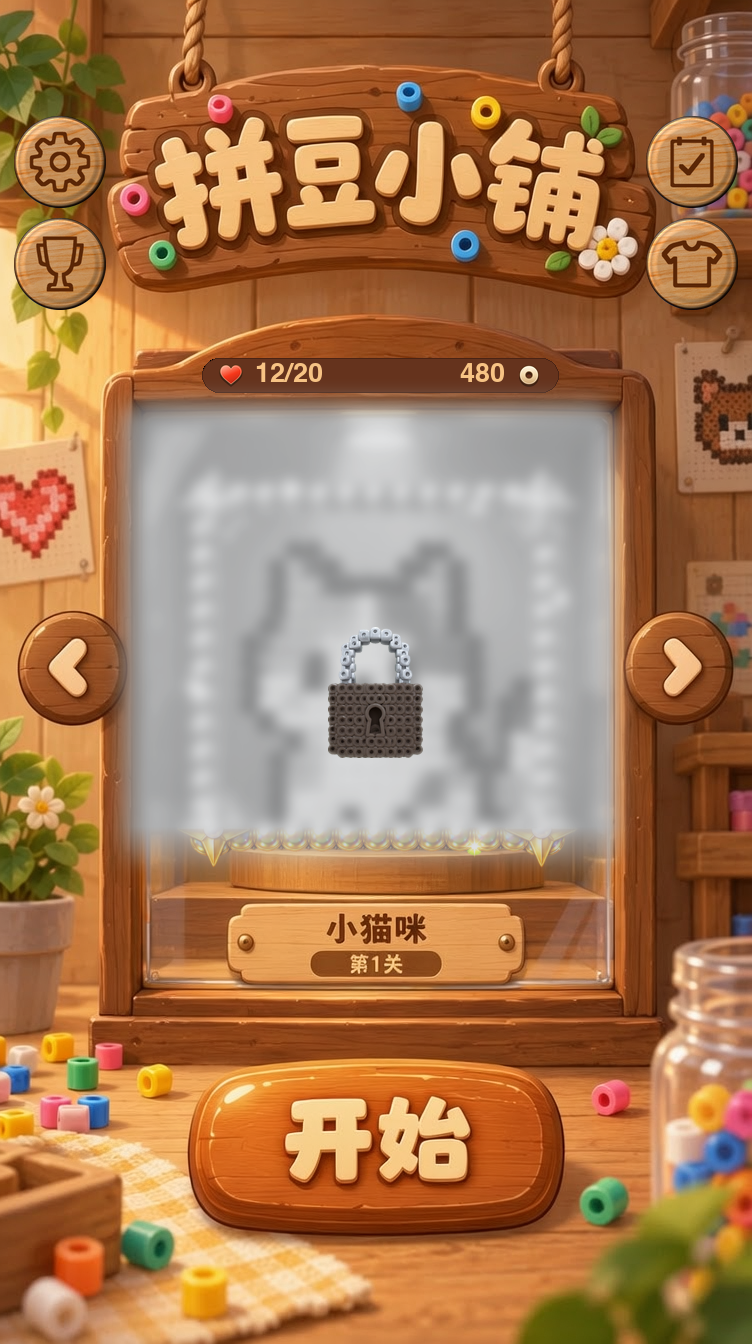
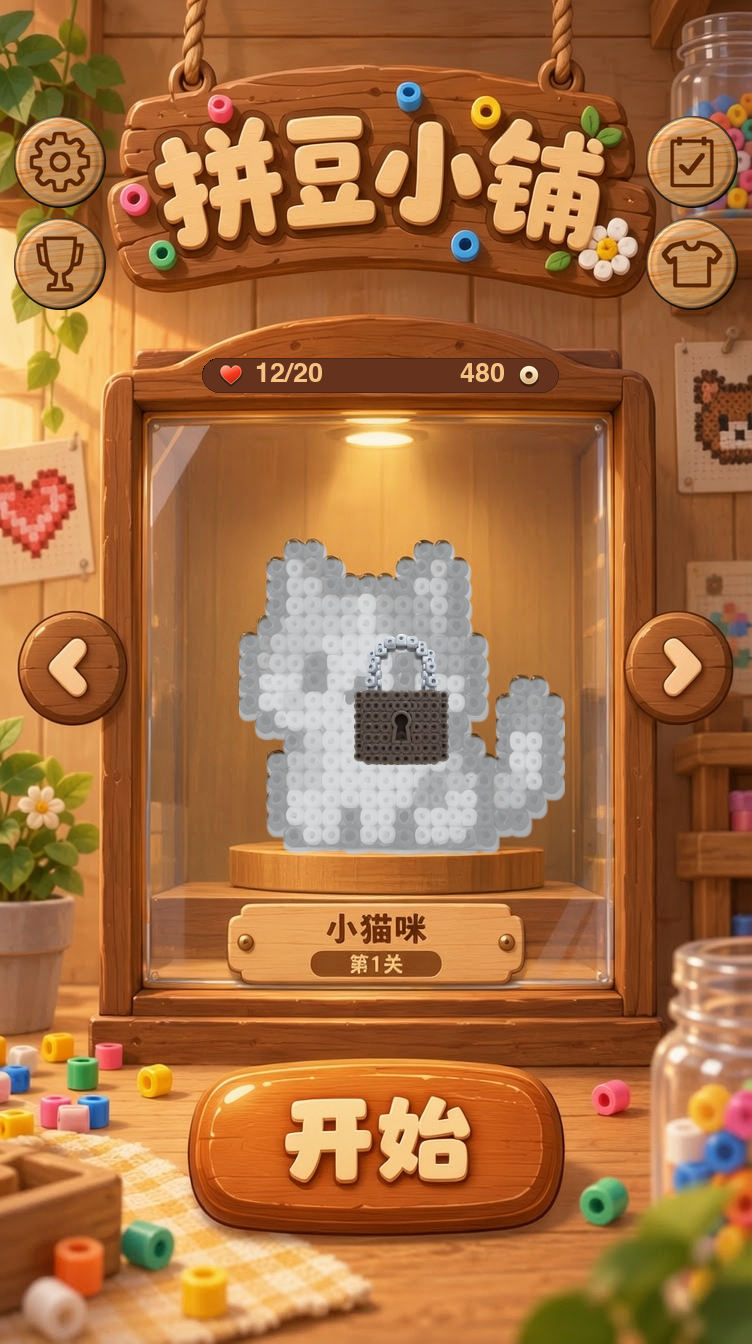
fix(art): 三态按图案真实位置重出（WXG-T-574）
- 模板匹配得豆画位移 +26/+7，mask/框/章/锁统一按真实 bbox

- locked 只灰小猫去蒙版去框；fullstar 框放大居中且去星

- cleared 通关章入内容层；五次贴回区外 maxdiff=0

Changed region(s): [[0.1529, 0.2812, 0.8564, 0.6562]]

diff --git a/games/beads/design/ai-workflows/proto-from-figma.py b/games/beads/design/ai-workflows/proto-from-figma.py
@@ -3,8 +3,11 @@
 
 贴回三步（区外 maxdiff 必须 0）：α = blur(M)×M 向内羽化 → 合成 → 区外硬拷回。
 
-与 v2 的差别：金边/三态章换成 Figma 新设计（珠圈装裱框 + 拼豆锁 + 金色通关圆章），
-磨砂 / 竖向揭彩 / 满星行沿用 proto-from-baseline.py（同式同向，⛔ 不得反）。
+四态口径（2026-11-04 用户令）：
+  locked   = ⛔ 无蒙版、无框；只按 44:64 真 alpha 把小猫置灰；锁贴豆画 bbox 正中
+  pushing  = 竖向揭彩（灰自上而下、彩自下而上）+ 木刻沙漏，珠圈框按 Figma 原位
+  cleared  = 全彩；通关圆章贴豆画 bbox 右上内缩 8px（内容层，随走马灯左右滚动）
+  fullstar = 珠圈框放大到中空区恰好容纳豆画并居中于 bbox；⛔ 无底座三颗星
 
 用法（仓库根）：python3 games/beads/design/ai-workflows/proto-from-figma.py
 """
@@ -29,28 +32,42 @@ OUT = ART / "final/prototypes"
 # Figma 画布 750×1334 → 基准底图 752×1344
 SX, SY = 752 / 750, 1344 / 1334
 
-FRAME_BOX = (164, 450, 426, 426)   # 46:21 满星装裱框·实例
-LOCK_BOX = (327, 622, 95, 130)     # 47:19 锁·关卡图案中心
-SEAL_BOX = (545, 405, 90, 89)      # 47:20 通关标记·框右上
+FRAME_BOX = (164, 450, 426, 426)       # 46:21 原框位（仅 pushing 用）
 ART_BOX_FIGMA = (212, 530, 325, 314)   # 44:64 关卡图案（猫咪拼豆）
+# 模板匹配实测：基准图里的豆画相对 Figma 节点右移 26 / 下移 7（scale 1.0，MAE 5.38）
+# ⇒ 一切以「图案」为准的落点（置灰 mask / 框中心 / 通关章 / 锁）都要加此位移
+ART_SHIFT = (26, 7)
+LOCK_WH = (95, 130)                    # 47:19 锁
+SEAL_WH = (90, 89)                     # 47:20 通关圆章
+SEAL_INSET = 8
+# 珠圈框中空区占框宽 0.695 / 高 0.717（实测十字扫描）；
+# 豆画 bbox 323×310 + 每边 8px ⇒ 框 488×455，中空区恰好框住图案
+FRAME_FULLSTAR_WH = (488, 455)
 
 
-def art_center():
-    """豆画 alpha 重心 → 基准图坐标；切图 @scale 2 ⇒ 2 切图 px = 1 设计 px。"""
+def art_bbox():
+    """豆画 44:64 的 alpha bbox（Figma 坐标，设计 px）；切图 @scale 2。"""
     with Image.open(ELEM / "ui_menu_art_cat.png") as im:
         a = np.asarray(im.convert("RGBA").getchannel("A"))
     ys, xs = np.nonzero(a > 32)
-    return ((ART_BOX_FIGMA[0] + xs.mean() / 2) * SX,
-            (ART_BOX_FIGMA[1] + ys.mean() / 2) * SY)
+    ax, ay = ART_BOX_FIGMA[:2]
+    dx, dy = ART_SHIFT
+    return (ax + dx + xs.min() / 2, ay + dy + ys.min() / 2,
+            ax + dx + (xs.max() + 1) / 2, ay + dy + (ys.max() + 1) / 2)
 
 
-def aligned_frame_box():
-    """把珠圈框中心平移到豆画 alpha 重心（返回 Figma 坐标 box）。"""
-    cx, cy = art_center()
-    fx, fy, fw, fh = FRAME_BOX
-    dx = (cx - (fx + fw / 2) * SX) / SX
-    dy = (cy - (fy + fh / 2) * SY) / SY
-    return (fx + dx, fy + dy, fw, fh)
+def centered_box(wh):
+    """以豆画 bbox 中心为准的居中 box（Figma 坐标）。"""
+    x0, y0, x1, y1 = art_bbox()
+    w, h = wh
+    return ((x0 + x1) / 2 - w / 2, (y0 + y1) / 2 - h / 2, w, h)
+
+
+def seal_box():
+    """通关章贴豆画 bbox 右上角内缩 8px（内容层，随走马灯滚动）。"""
+    _, y0, x1, _ = art_bbox()
+    w, h = SEAL_WH
+    return (x1 - SEAL_INSET - w, y0 + SEAL_INSET, w, h)
 
 
 def feather_paste(base, el, box, feather=1.2):
@@ -78,27 +95,56 @@ def feather_paste(base, el, box, feather=1.2):
     return Image.fromarray(o.astype(np.uint8)), maxdiff
 
 
+def local_composite(base, layer, mask):
+    """全尺寸 L mask 合成 + 区外硬拷回 + maxdiff 自证。"""
+    out = Image.composite(layer, base, mask)
+    b = np.asarray(base, dtype=np.int16)
+    o = np.asarray(out, dtype=np.int16)
+    outside = np.asarray(mask) == 0
+    o[outside] = b[outside]
+    maxdiff = int(np.abs(o - b)[outside].max()) if outside.any() else 0
+    assert maxdiff == 0, f"区外 maxdiff={maxdiff}"
+    return Image.fromarray(o.astype(np.uint8)), maxdiff
+
+
+def gray_art(base):
+    """只置灰小猫：44:64 真 alpha 当 mask，纯去饱和（blur=0），⛔ 无蒙版、无框。"""
+    with Image.open(ELEM / "ui_menu_art_cat.png") as im:
+        m = im.convert("RGBA").getchannel("A")
+    ax, ay, aw, ah = ART_BOX_FIGMA
+    X = round((ax + ART_SHIFT[0]) * SX)
+    Y = round((ay + ART_SHIFT[1]) * SY)
+    W, H = round(aw * SX), round(ah * SY)
+    m = m.resize((W, H), Image.LANCZOS)
+    # 对齐后仍外扩 2px 盖住豆画外缘描边珠子
+    m = m.filter(ImageFilter.MaxFilter(5))
+    m = ImageChops.multiply(m.filter(ImageFilter.GaussianBlur(1.2)), m)
+    full = Image.new("L", base.size, 0)
+    full.paste(m, (X, Y))
+    return local_composite(base, pb.gray_layer(base), full)
+
+
 def main():
     base = Image.open(BASE).convert("RGB")
     size = base.size
-    print("base", size, "progress", pb.PROGRESS)
+    print("base", size, "progress", pb.PROGRESS,
+          "豆画 bbox", tuple(round(v, 1) for v in art_bbox()))
 
-    # 珠圈装裱框：三态共用（新设计的基本元素）
+    # 原位置珠圈框：仅 pushing 用（用户未点名此态）
     with Image.open(ELEM / "ui_menu_frame_pearls.png") as el:
         framed, d0 = feather_paste(base, el, FRAME_BOX)
-    print("frame 贴回 区外 maxdiff", d0)
+    print("pushing 框 贴回 区外 maxdiff", d0)
 
     fade = pb.bottom_fade(size, pb.CASE[3] - pb.CASE_FADE, pb.CASE[3] + 10)
 
-    # locked：柜内磨砂置灰 + Figma 拼豆锁
-    locked = Image.composite(
-        pb.gray_layer(framed, blur=6, lift=100, scale=0.55, veil=0.16), framed,
-        pb.shape(pb.CASE, size, blur=10, ramp=fade))
+    # locked：只灰小猫 + 锁居中；⛔ 无磨砂蒙版、无框
+    locked, d4 = gray_art(base)
+    print("locked 小猫置灰 区外 maxdiff", d4)
     with Image.open(ELEM / "ui_menu_badge_locked_figma.png") as el:
-        locked, d1 = feather_paste(locked, el, LOCK_BOX)
-    print("locked 章 贴回 区外 maxdiff", d1)
+        locked, d1 = feather_paste(locked, el, centered_box(LOCK_WH))
+    print("locked 锁 贴回 区外 maxdiff", d1)
 
-    # pushing：竖向揭彩（灰自上而下、彩自下而上）+ 木刻沙漏（Figma 未给此章）
+    # pushing：竖向揭彩（上灰下彩）+ 木刻沙漏（Figma 未给此章）
     ramp = pb.wipe_ramp(size, pb.PROGRESS, pb.WIPE_SOFT) * fade
     pushing = Image.composite(
         pb.gray_layer(framed, blur=0, lift=64, scale=0.66, veil=0.10), framed,
@@ -106,23 +152,17 @@ def main():
     pb.stamp(pushing, "ui_menu_badge_progress.png",
              pb.ART_C[0], pb.ART_C[1] + 4, pb.HOUR_D, pb.HOUR_D)
 
-    # cleared：全彩 + Figma 通关圆章（⛔ 无框、无底座三颗星）
+    # cleared：全彩 + 通关章贴豆画 bbox 右上；⛔ 无框、无底座三颗星
     cleared = base.copy()
     with Image.open(ELEM / "ui_menu_seal_cleared_figma.png") as el:
-        cleared, d2 = feather_paste(cleared, el, SEAL_BOX)
+        cleared, d2 = feather_paste(cleared, el, seal_box())
     print("cleared 章 贴回 区外 maxdiff", d2)
 
-    # fullstar：珠圈框中心对齐豆画 alpha 重心 + 底座三颗金星
-    box = aligned_frame_box()
-    print("fullstar 框平移(dx,dy 设计px)", round((box[0] - FRAME_BOX[0]) * SX, 1),
-          round((box[1] - FRAME_BOX[1]) * SY, 1))
+    # fullstar：框放大并居中于豆画 bbox；⛔ 无三颗星
+    box = centered_box(FRAME_FULLSTAR_WH)
+    print("fullstar 框", tuple(round(v, 1) for v in box))
     with Image.open(ELEM / "ui_menu_frame_pearls.png") as el:
         fullstar, d3 = feather_paste(base, el, box)
-    # 三颗星随框同步下移，仍落在「底座」圆台上而非金框柱上
-    star_y0 = pb.STAR_Y
-    pb.STAR_Y = star_y0 + round((box[1] - FRAME_BOX[1]) * SY)
-    fullstar = pb.star_row(fullstar)
-    pb.STAR_Y = star_y0
     print("fullstar 框 贴回 区外 maxdiff", d3)
 
     states = {"locked": locked, "pushing": pushing, "cleared": cleared,

diff --git a/games/beads/design/art/final/README.md b/games/beads/design/art/final/README.md
@@ -16,7 +16,7 @@
 
 ### 1b. 2026-11-04 现行口径（WXG-T-574）
 
-用户令：**基准图不动**；从 Figma 下载新设计图；参考 v2 三态做新三态；坐标图落 `coordinates/`；**之前的三态去掉**。追加令：`cleared` 通关**不加框、不加底座三颗星**；另增**满星**态（加框、图案居中于框）。
+用户令：**基准图不动**；从 Figma 下载新设计图；参考 v2 三态做新三态；坐标图落 `coordinates/`；**之前的三态去掉**。追加令：通关去框去星、另增满星态；再追加令（本批）：`fullstar` 框居中且正好框住图案、去三颗星；`cleared` 通关章移到图案矩形右上角（随内容左右滚动）；`locked` 去蒙版、只灰小猫、去框、锁居中。
 
 | 目录 | 现行件 | 来源 |
 |---|---|---|
@@ -25,11 +25,15 @@
 | `prototypes/` | `proto-menu-v3-{locked,pushing,cleared,fullstar}-752x1344.png` | 本批新四态（752×1344） |
 | `coordinates/` | `menu-master-coords-v2-20261104.png` | Figma `50:113` 坐标图（1300×1334，安全区 + 胶囊区 + 元素实测框） |
 
-**四态分工**：`locked` 磨砂 + 拼豆锁 · `pushing` 竖向揭彩 + 木刻沙漏（两者珠圈框按原 Figma 位）· `cleared` **无框无星**，只留 Figma 通关圆章 · `fullstar` 珠圈框 + 底座三颗金星，框中心平移到豆画 alpha 重心（dx −13.8 / dy +38.5 设计 px），金星随框下移仍落圆台。
+**四态分工（现行）**：`locked` = **无蒙版、无框**，只按 `44:64` 真 alpha 把小猫置灰（`gray_layer` blur=0），拼豆锁贴豆画 bbox 正中 · `pushing` = 竖向揭彩 + 木刻沙漏 + 原 Figma 位珠圈框（用户未点名此态，未改）· `cleared` = 全彩**无框无星**，通关圆章贴豆画 bbox 右上内缩 8px（属走马灯内容层）· `fullstar` = 珠圈框放大到 **488×455**（中空区占框宽 0.695 / 高 0.717，恰好容纳豆画 323×310 并留 8px 边）、中心对齐豆画 bbox，**⛔ 无三颗星**。
 
-**生成史三要素**：① 生成方式 = Figma REST 下载 + 程序化像素变换（**零模型、零重绘**）；② 产出脚本 = `my-skills/wxgame-figma/scripts/figma.mjs`（下载）、`../../ai-workflows/proto-from-figma.py`（四态；复用 `proto-from-baseline.py` 的磨砂 / 竖向揭彩 / 满星行函数）；③ 原图 = Figma 文件 `PBIK3RbfGlfzFsAnd97ZsP` 节点 `2:81` / `50:113` / `46:21` / `47:19` / `47:20` / `44:64`，**四件**透明切图存 `proposals/menu-3d-style-20261030/figma-elements-20261104/`（真 alpha；新增 `ui_menu_art_cat.png` 供重心计算）。
+**关键实测**：模板匹配（numpy，零新依赖）显示基准图里的豆画相对 Figma `44:64` 节点 **右移 26 / 下移 7**（scale 1.0，MAE 5.38）⇒ 脚本 `ART_SHIFT=(26,7)`，一切以「图案」为准的落点（置灰 mask / 框中心 / 通关章 / 锁）均加此位移；否则 mask 偏左会留一圈未置灰的深色珠子。豆画真实 bbox = (239,539)-(562,849)。
 
-**贴回判据**：α = blur(M)×M 向内羽化 → 合成 → 区外硬拷回；四次贴回实测 **区外 maxdiff = 0**（脚本 assert 硬失败）。饱和度分档 locked 2.3 / pushing 灰 5.3·彩 94.0 / cleared 96.9（全彩，仅通关章改动 0.6%）；`pushing` 的珠圈框上灰下金，与运行时 `grayWipeFx` 同式同向。
+**生成史三要素**：① 生成方式 = Figma REST 下载 + 程序化像素变换（**零模型、零重绘**）；② 产出脚本 = `my-skills/wxgame-figma/scripts/figma.mjs`（下载）、`../../ai-workflows/proto-from-figma.py`（四态；复用 `proto-from-baseline.py` 的去饱和 / 竖向揭彩函数）；③ 原图 = Figma 文件 `PBIK3RbfGlfzFsAnd97ZsP` 节点 `2:81` / `50:113` / `46:21` / `47:19` / `47:20` / `44:64`，**四件**透明切图存 `proposals/menu-3d-style-20261030/figma-elements-20261104/`（真 alpha；`ui_menu_art_cat.png` 供 bbox / 置灰 mask / 模板匹配）。
+
+**贴回判据**：α = blur(M)×M 向内羽化 → 合成 → 区外硬拷回；五次贴回/合成实测 **区外 maxdiff = 0**（脚本 assert 硬失败）。`locked` 改动仅 7.7%（包围盒 239,541–564,856 = 豆画区），柜内饱和度 68.0（背景/木牌/资源条全彩未动）；`cleared` 96.2（全彩）；`pushing` 灰 5.3·彩 94.0，与运行时 `grayWipeFx` 同式同向。
+
+⚠ **接线现状（未改代码）**：`src/view/meta-menu.ts:364-365` 记载 WXG-T-566 已把三态标记（通关飘带 / 锁 / 沙漏）**全部退场**，运行时只靠「作品灰度 + 柜灯」表达三态。本批原型上的通关章 / 锁属设计示意；若日后接线，通关章须挂在**走马灯内容层**随小猫图案一起左右滚动，⛔ 不得钉在玻璃框上 —— 另立任务。
 
 v2 三态 `proto-menu-v2-{locked,pushing,cleared}-752x1344.png` 已按用户令从目录移除（git 历史可取回）。**接线目标：原型设计，不进运行时 `assets/`**。
 

diff --git a/production/TASKS.md b/production/TASKS.md
@@ -8,7 +8,7 @@
 
 | Task ID | 名称 | 负责 | 状态 | 产出 |
 |---|---|---|---|---|
-| WXG-T-574 | 美术·Figma v2 设计图/坐标图落库 + v3 三态原型 | 主理人(CodeBuddy)·美术轨 | ✅ **完成（2026-11-04）**（用户令「基准不动、下载新设计图、参考旧三态做新三态、坐标图落 coordinates、去掉之前的」⇒ 方法选「分层切图贴回」：`2:81` 新设计图 + `50:113` 坐标图经 PAT+REST 下载落库；`46:21`/`47:19`/`47:20` 三件真 alpha 切图 + `proto-from-figma.py` 出 v3 三态，三次贴回区外 maxdiff=0；v2 三态移除；追加令：`cleared` 去框去星 + 新增 `fullstar`（移框对齐、图案居中）；README §1b / asset-provenance §5 登记） | 见详情 |
+| WXG-T-574 | 美术·Figma v2 设计图/坐标图落库 + v3 三态原型 | 主理人(CodeBuddy)·美术轨 | ✅ **完成（2026-11-04）**（用户令「基准不动、下载新设计图、参考旧三态做新三态、坐标图落 coordinates、去掉之前的」⇒ 方法选「分层切图贴回」：`2:81` 新设计图 + `50:113` 坐标图经 PAT+REST 下载落库；`46:21`/`47:19`/`47:20` 三件真 alpha 切图 + `proto-from-figma.py` 出 v3 三态，三次贴回区外 maxdiff=0；v2 三态移除；追加令：`cleared` 去框去星 + 新增 `fullstar`；二次追加令：框放大居中/去星、通关章入内容层、`locked` 只灰小猫且去蒙版去框；模板匹配得图案位移 (+26,+7)；README §1b / asset-provenance §5 登记） | 见详情 |
 | WXG-T-573 | 美术·删除菜单翻页钮 ui_btn_arrow_left/right | 主理人(Cursor)·美术轨 | ✅ **完成（2026-11-03）**（用户令「这两个不要了」⇒ 经两次确认选「删除 + 回退旧圆底」：删现役 `final/assets/menu/` 2 件与 Cocos 投放 2 件（png + meta）；清 `tuning/menu.ts` 两个纹理键、`beads-blit-carrier.ts` 与 `dev/harness/main.ts` 映射；`meta-menu.ts` 去掉整枚腿分支，橱窗 ◀▶ 回退 `ui_btn_arrow_bg_*` + `ui_icon_arrow_*`；`showcase-single.test.ts` 改断言为回退路径。beads 全量 vitest 121 文件 / 1430 用例全绿。详见 TASKS-DETAIL） | 见详情 |
 | WXG-T-572 | 美术·菜单基准图落 prototypes + Figma 写入权限验证 | 主理人(Cursor)·美术轨 | ✅ **完成（2026-11-03）**（基准图已落 `final/prototypes/`；新建 / 上传 / 读回 / `use_figma` 写入均已通过） | 见详情 |
 | WXG-T-571 | 工具链·Figma MCP 改接本地桌面版 | 主理人(Cursor·CodeBuddy)·工具链轨 | ✅ **完成（2026-11-03·方案改判）**（MCP 两路均判负：远程 OAuth 动态注册 403 白名单、本地 `3845` 需 Dev/Full 座位且恒不监听 ⇒ 用户令「用 `FIGMA_API_KEY` 走统一 skill」；已落地 `my-skills/wxgame-figma`（PAT+REST，`me`/`tree`/`node`/`img`+selftest，零依赖）+ 五 IDE 符号链接，`check:links` skills=51 OK） | 见详情 |

diff --git a/production/TASKS-DETAIL.md b/production/TASKS-DETAIL.md
@@ -7706,3 +7706,18 @@ Figma 官方文档（remote-server-installation）：远程端点 `https://mcp.f
 - `locked` / `pushing` **未改**（用户未点名）；其珠圈框仍按 Figma 原位。
 - 四态贴回判据：区外 maxdiff = 0 ×4；`cleared` 柜内饱和度 96.9（全彩）。
 - README §1b、asset-provenance §5 同步回写；仍署 WXG-T-574（同批返工，不另领号）。
+
+### 7. 二次追加令（2026-11-04）：三态按「图案真实位置」重出
+
+用户令：① `fullstar` 框要居中、正好框住图案、去掉下面三颗星；② `cleared` 通关图标放到图案矩形区域右上角，**跟小猫图案一起左右滚动**；③ `locked` 不要蒙版、小猫本身置灰即可、不要框、锁放到小猫矩形框正中。按图像任务开工前提示令，列两组选项后用户选 **「放大框·bbox 居中」+「豆画 bbox 右上内缩」**。
+
+**根因诊断（本批最有价值的一条）**：初版 `locked` 只灰出半只猫、右侧留一圈未置灰的深色珠子。先试 mask 外扩 4px 无效 ⇒ 排除「边缘差几像素」，改做模板匹配：把 `44:64` 切图 RGB 与基准图逐点粗搜（numpy，零新依赖），得 **scale 1.0 / dx +26 / dy +7 / MAE 5.38**（粗搜 +28/+8，细搜收敛到 +26/+7）。即**基准图里的豆画相对 Figma 节点有系统性位移**，不是尺寸差。⇒ 脚本加 `ART_SHIFT=(26,7)`，置灰 mask / 框中心 / 通关章 / 锁全部按真实 bbox **(239,539)-(562,849)** 落位。
+
+- `fullstar`：珠圈框中空区占框宽 0.695 / 高 0.717（十字扫描实测），豆画 323×310 + 每边 8px ⇒ 框 **488×455**，中心对齐 bbox；三颗星退场。
+- `cleared`：通关圆章贴 bbox 右上内缩 8px ⇒ (464,547) 一带，属走马灯**内容层**。
+- `locked`：`gray_art()` 用 `44:64` 真 alpha（MaxFilter 5 外扩 2px）当 mask 做 `gray_layer(blur=0)` 局部去饱和；⛔ 无 `shape(CASE)` 磨砂蒙版、无框；锁按 `centered_box()` 贴 bbox 正中。改动仅 7.7%，柜内饱和度 68.0（背景/木牌/资源条全彩未动）。
+- `pushing` **未改**（用户未点名）。
+
+**接线现状**：`src/view/meta-menu.ts:364-365` 记载 WXG-T-566 已把通关飘带 / 锁 / 沙漏**全部退场**，运行时只靠「作品灰度 + 柜灯」表达三态。本批原型上的章/锁属设计示意；若日后接线，通关章须挂走马灯内容层随图案左右滚动，⛔ 不得钉玻璃框 —— 另立任务，**本批未改代码**。
+
+判据：五次贴回/合成区外 **maxdiff = 0**（脚本 assert）；三张点名图逐张目视通过。README §1b、asset-provenance §5 同步回写；仍署 WXG-T-574。

diff --git a/ctx/hot-files.md b/ctx/hot-files.md
@@ -25,7 +25,7 @@
 
 §wechatgame 项目长期笔记=1+81 · §日志蒸馏规程（R2 · WXG-T-0…=7+6 · §项目约定=13+22 · §常用脚本=35+11 · §SubAgent=46+4 · §Rules=50+3 · §Hooks=53+7 · §Headless / CI=60+8 · §已知限制=68+14
 
-## `production/TASKS.md` — 181 行 / 41747 tok / 实测读 4 次
+## `production/TASKS.md` — 181 行 / 41784 tok / 实测读 4 次
 
 §WXG 任务台账（SSOT）=1+182 · §待排（backlog，无号，立项时领取…=154+29
 
@@ -103,10 +103,10 @@
 §knowledge/ — 工作室知识库…=1+323 · §1 读取协议（开发前期）=7+10 · §2 写入协议（任务收尾）=17+28 · §3 文件分工=45+10 · §4 维护=55+12 · §5 生命周期（访问记账 → 归档 → …=67+41 · §6 活跃条目（自动生成）=108+216
 > 本表只列 7 / 11 节：其余 4 节 → ctx/index.json（按 path 取 `sections[].anchor` / `startLine`，勿整读）。
 
-## `production/TASKS-DETAIL.md` — 7708 行 / 213982 tok
+## `production/TASKS-DETAIL.md` — 7723 行 / 214683 tok
 
-§WXG 任务台账 · 详情（标题制正文…=1+7709 · §WXG-T-563=7205+30 · §WXG-T-566=7235+61 · §WXG-T-567=7296+25 · §WXG-T-565=7321+32 · §WXG-T-564=7353+34 · §WXG-T-569=7387+41 · §WXG-T-568=7428+60 · §WXG-T-570=7488+71 · §WXG-T-571=7559+38 · §WXG-T-572=7597+33 · §WXG-T-573=7630+36 · §WXG-T-574=7666+44
-> 本表只列 13 / 845 节：其余 832 节 → ctx/index.json（按 path 取 `sections[].anchor` / `startLine`，勿整读）。
+§WXG 任务台账 · 详情（标题制正文…=1+7724 · §WXG-T-563=7205+30 · §WXG-T-566=7235+61 · §WXG-T-567=7296+25 · §WXG-T-565=7321+32 · §WXG-T-564=7353+34 · §WXG-T-569=7387+41 · §WXG-T-568=7428+60 · §WXG-T-570=7488+71 · §WXG-T-571=7559+38 · §WXG-T-572=7597+33 · §WXG-T-573=7630+36 · §WXG-T-574=7666+59
+> 本表只列 13 / 846 节：其余 833 节 → ctx/index.json（按 path 取 `sections[].anchor` / `startLine`，勿整读）。
 
 ## `games/breakout/design/concept.md` — 143 行 / 3113 tok / 实测读 217 次
 

diff --git a/ctx/BUDGET.md b/ctx/BUDGET.md
@@ -22,7 +22,7 @@
 
 | # | 文件 | tokens | 行数 | tier |
 |---:|---|---:|---:|:--:|
-| 1 | `production/TASKS-DETAIL.md` | 213982 | 7708 | normal |
+| 1 | `production/TASKS-DETAIL.md` | 214683 | 7723 | normal |
 | 2 | `games/beads/design/gdd/powerups-v2.md` | 154580 | 2352 | normal |
 | 3 | `games/beads/design/art/specs/assets-spec.md` | 121738 | 2109 | normal |
 | 4 | `production/qa/beads/g4-regression-report.md` | 86807 | 2201 | normal |
@@ -31,7 +31,7 @@
 | 7 | `docs/architecture/adr/ADR-0030-beads-cocos-production-blit-carrier.md` | 45150 | 1307 | normal |
 | 8 | `games/beads/design/proposals/bead-visual-style-spec.md` | 43650 | 1206 | normal |
 | 9 | `games/beads/design/gdd/systems-index.md` | 42379 | 323 | hot |
-| 10 | `production/TASKS.md` | 41747 | 181 | hot |
+| 10 | `production/TASKS.md` | 41784 | 181 | hot |
 | 11 | `docs/architecture/adr/ADR-0034-beads-save-uid-index-flatten.md` | 41181 | 502 | normal |
 | 12 | `games/beads/design/levels/levels-spec.md` | 39938 | 914 | normal |
 | 13 | `games/beads/design/art/specs/art-bible.md` | 38368 | 530 | normal |
@@ -49,7 +49,7 @@
 
 | 文件 | tokens | 类别 · 上限 | 处置 |
 |---|---:|---:|:--:|
-| `production/TASKS-DETAIL.md` | 213982 | tasksDetail · 205000 | 见 `ctx/budget-exempt.json`（无豁免则 ❌ 需报告主理人） |
+| `production/TASKS-DETAIL.md` | 214683 | tasksDetail · 205000 | 见 `ctx/budget-exempt.json`（无豁免则 ❌ 需报告主理人） |
 | `games/beads/design/gdd/powerups-v2.md` | 154580 | spec · 8000 | 见 `ctx/budget-exempt.json`（无豁免则 ❌ 需报告主理人） |
 | `games/beads/design/art/specs/assets-spec.md` | 121738 | spec · 8000 | 见 `ctx/budget-exempt.json`（无豁免则 ❌ 需报告主理人） |
 | `production/qa/beads/g4-regression-report.md` | 86807 | ledger · 16000 | 见 `ctx/budget-exempt.json`（无豁免则 ❌ 需报告主理人） |

diff --git a/production/qa/asset-provenance.md b/production/qa/asset-provenance.md
@@ -90,3 +90,7 @@
 判据：四次贴回**区外 maxdiff = 0**（脚本 assert）；接线目标 = 原型设计，**不进运行时 assets**。基准图 `menu-design-baseline-cat-topbar-final-slotbar-20261102.png` 未改动；v2 三态按用户令从目录移除（git 历史可取回）。
 
 **追加令（同日）**：`cleared` 去框、去底座三颗星（只留通关圆章）；新增 `fullstar` = 珠圈框 + 三颗金星，框 bbox 平移到 `44:64` 豆画 alpha 重心（dx −13.8 / dy +38.5 设计 px），金星随框同步下移仍落圆台。方案按用户令在「移框对齐 / 移框不带星 / 重贴豆画」三法中选**移框对齐**（零抠图、零擦除、零模型）。
+
+⚠ **上段口径已被第二次追加令覆盖**：`fullstar` 框改为放大到 488×455 并居中于豆画 **bbox**（不再用 alpha 重心）、三颗星退场；`cleared` 通关章移到豆画 bbox 右上内缩 8px；`locked` 去蒙版去框、只灰小猫、锁贴 bbox 正中。方法仍在「放大框·bbox 居中 / 保持 426² / 缩到同尺寸」与「bbox 右上 / 裁切区右上 / 外挂」中由用户选了两项推荐。
+
+**模板匹配实测（本批关键）**：`44:64` 切图与基准图豆画 RGB 逐点匹配 ⇒ 位移 **(+26,+7)**、scale 1.0、MAE 5.38；脚本以 `ART_SHIFT` 常量固定，置灰 mask / 框 / 章 / 锁全部按真实图案位置落位。零新依赖（numpy）。五次贴回与合成区外 maxdiff = 0。运行时接线差异见 `final/README.md §1b`（WXG-T-566 三态标记已退场，本批原型属设计示意，未改代码）。
